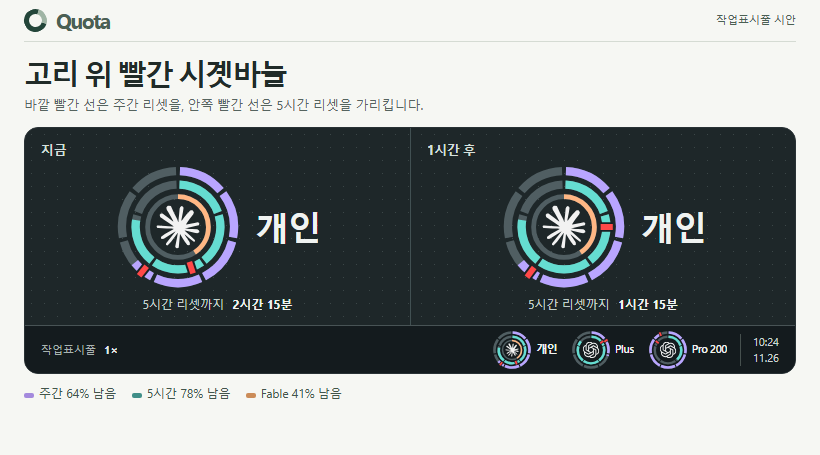
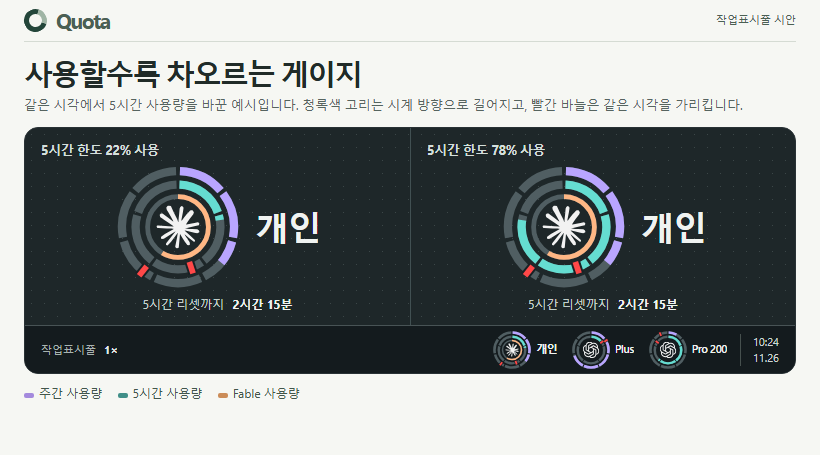
Fill preview rings clockwise as quota is consumed

diff --git a/clock-preview.js b/clock-preview.js
@@ -1,9 +1,9 @@
 "use strict";
 
 const accounts = [
-  { provider: "Claude", alias: "개인", week: 64, short: 78, fable: 41, weekReset: 4 * 1440 + 360, shortReset: 135 },
-  { provider: "GPT", alias: "Plus", week: 30, short: 86, weekReset: 1440 + 180, shortReset: 45 },
-  { provider: "GPT", alias: "Pro 200", week: 92, short: 38, weekReset: 6 * 1440 + 720, shortReset: 255 },
+  { provider: "Claude", alias: "개인", used: { week: 36, short: 22, fable: 59 }, weekReset: 4 * 1440 + 360, shortReset: 135 },
+  { provider: "GPT", alias: "Plus", used: { week: 70, short: 14 }, weekReset: 1440 + 180, shortReset: 45 },
+  { provider: "GPT", alias: "Pro 200", used: { week: 8, short: 62 }, weekReset: 6 * 1440 + 720, shortReset: 255 },
 ];
 const rings = {
   week: { name: "주간", color: "#b9a5ff", radius: 35, cells: 7, minutes: 7 * 1440 },
@@ -42,7 +42,7 @@ function point(radius, fraction) {
 }
 function ring(a, key) {
   const { radius, cells, color } = rings[key];
-  const value = a[key] / 100;
+  const value = a.used[key] / 100;
   const stroke = key === "fable" ? 3 : 5.2;
   const track = "#505e62";
   if (cells === 1) {
@@ -71,8 +71,8 @@ function hand(a, key) {
 }
 function tile(a, style = mode) {
   const logo = a.provider === "Claude" ? "claude" : "openai";
-  const size = a.fable == null ? 33 : 27;
-  const dial = Object.keys(rings).filter(k => a[k] != null).map(k => ring(a, k)).join("");
+  const size = a.used.fable == null ? 33 : 27;
+  const dial = Object.keys(a.used).map(k => ring(a, k)).join("");
   return '<span class="tile" data-mode="' + style + '"><svg class="dial" viewBox="0 0 80 80" aria-hidden="true">' + dial +
     '<image href="' + logo + '.svg" x="' + (80 - size) / 2 + '" y="' + (80 - size) / 2 + '" width="' + size + '" height="' + size + '" style="filter:brightness(0) invert(95%)"/>' +
     (style === "hands" ? hand(a, "week") + hand(a, "short") : "") + '</svg><span class="side"><span class="alias">' + a.alias + '</span>' +
@@ -83,14 +83,14 @@ function draw() {
   const a = accounts[selected];
   $("#zoom").innerHTML = tile(a);
   $("#who").textContent = a.provider + " · " + a.alias;
-  $("#readings").innerHTML = Object.keys(rings).filter(k => a[k] != null).map(key =>
-    '<tr><td><i class="' + key + '"></i>' + rings[key].name + '</td><td>' + a[key] + '%</td><td>' +
+  $("#readings").innerHTML = Object.keys(a.used).map(key =>
+    '<tr><td><i class="' + key + '"></i>' + rings[key].name + '</td><td>' + a.used[key] + '%</td><td>' +
     duration((key === "short" ? a.shortReset : a.weekReset) - elapsed) + '</td></tr>'
   ).join("");
   document.querySelectorAll("#strip button").forEach((b, i) => {
     b.setAttribute("aria-pressed", String(i === selected));
     const item = accounts[i];
-    b.title = ["week", "short"].map(k => rings[k].name + " " + item[k] + "% · " + duration(item[k + "Reset"] - elapsed)).join("\n");
+    b.title = ["week", "short"].map(k => rings[k].name + " " + item.used[k] + "% 사용 · " + duration(item[k + "Reset"] - elapsed)).join("\n");
     b.innerHTML = tile(item);
   });
   document.querySelectorAll(".option").forEach(b => {
@@ -101,8 +101,8 @@ function draw() {
   $("#clock").textContent = now.toTimeString().slice(0, 5);
   $("#date").textContent = (now.getMonth() + 1) + "." + now.getDate();
   for (const key of ["week", "short"]) {
-    $("#" + key).value = a[key];
-    $("#" + key + "-value").textContent = a[key] + "%";
+    $("#" + key).value = a.used[key];
+    $("#" + key + "-value").textContent = a.used[key] + "%";
   }
   $("#rewind").disabled = elapsed === 0;
   $("#elapsed").textContent = elapsed > 0 ? duration(elapsed) + " 경과" : "";
@@ -117,7 +117,7 @@ document.querySelectorAll(".option").forEach(b => b.onclick = () => { mode = b.d
 document.querySelectorAll("[data-step]").forEach(b => b.onclick = () => { advance += Number(b.dataset.step); draw(); });
 $("#rewind").onclick = () => { advance = 0; startedAt = Date.now(); draw(); };
 for (const key of ["week", "short"]) {
-  $("#" + key).oninput = (e) => { accounts[selected][key] = Number(e.target.value); draw(); };
+  $("#" + key).oninput = (e) => { accounts[selected].used[key] = Number(e.target.value); draw(); };
 }
 draw();
 setInterval(draw, 60000);

diff --git a/index.html b/index.html
@@ -10,12 +10,12 @@
 <body>
   <header class="mast"><span class="wordmark"><i aria-hidden="true"></i>Quota</span><a href="account-preview.html">이전 계정 상세 시안 ↗</a></header>
   <main>
-    <header class="intro"><h1>작업표시줄 리셋 시계</h1><p>고리의 길이는 남은 할당량을, 타이머는 다음 리셋까지의 시간을 보여줍니다.</p></header>
+    <header class="intro"><h1>작업표시줄 리셋 시계</h1><p>사용할수록 고리가 12시부터 시계 방향으로 차오릅니다. 빨간 바늘은 다음 리셋까지 남은 시간을 가리킵니다.</p></header>
     <section class="board" aria-label="게이지 미리보기">
       <div class="canvas">
         <div class="zoom"><div class="cap">게이지 확대 <span>3×</span></div><div id="zoom"></div></div>
         <div class="readout"><div class="cap"><span id="who"></span><span>예시 데이터</span></div>
-          <table><thead><tr><th>한도</th><th>잔여량</th><th>리셋까지</th></tr></thead><tbody id="readings"></tbody></table>
+          <table><thead><tr><th>한도</th><th>사용량</th><th>리셋까지</th></tr></thead><tbody id="readings"></tbody></table>
         </div>
       </div>
       <div class="bar"><span class="bar-label">작업표시줄 <strong>1×</strong></span><div id="strip" aria-label="미리 볼 계정"></div><div class="system-clock"><span id="clock"></span><span id="date"></span></div></div>
@@ -25,8 +25,8 @@
       <button class="option" data-mode="scale" aria-pressed="false"><span class="radio"></span><span><strong>별칭 아래 시간 눈금</strong><small>보라색 7칸은 하루씩, 청록색 5칸은 한 시간씩 꺼집니다.</small></span><span class="sample-tile" aria-hidden="true"></span></button>
     </section>
     <section class="controls" aria-label="시안 조작">
-      <div class="experiment"><h2>시간을 앞당겨 보기</h2><p>할당량을 고정하고 두 타이머의 움직임을 비교하세요.</p><div class="steps"><button data-step="60">+1시간</button><button data-step="1440">+1일</button><button id="rewind" disabled>처음으로</button></div><output id="elapsed" aria-live="polite"></output></div>
-      <div class="sliders"><h2>남은 할당량 바꿔 보기</h2><div class="slider"><label for="week">주간</label><input id="week" type="range" min="0" max="100"><output for="week" id="week-value"></output></div><div class="slider"><label for="short">5시간</label><input id="short" type="range" min="0" max="100"><output for="short" id="short-value"></output></div></div>
+      <div class="experiment"><h2>시간을 앞당겨 보기</h2><p>사용량을 고정하고 두 타이머의 움직임을 비교하세요.</p><div class="steps"><button data-step="60">+1시간</button><button data-step="1440">+1일</button><button id="rewind" disabled>처음으로</button></div><output id="elapsed" aria-live="polite"></output></div>
+      <div class="sliders"><h2>사용량 바꿔 보기</h2><div class="slider"><label for="week">주간</label><input id="week" type="range" min="0" max="100"><output for="week" id="week-value"></output></div><div class="slider"><label for="short">5시간</label><input id="short" type="range" min="0" max="100"><output for="short" id="short-value"></output></div></div>
     </section>
   </main>
 </body>
